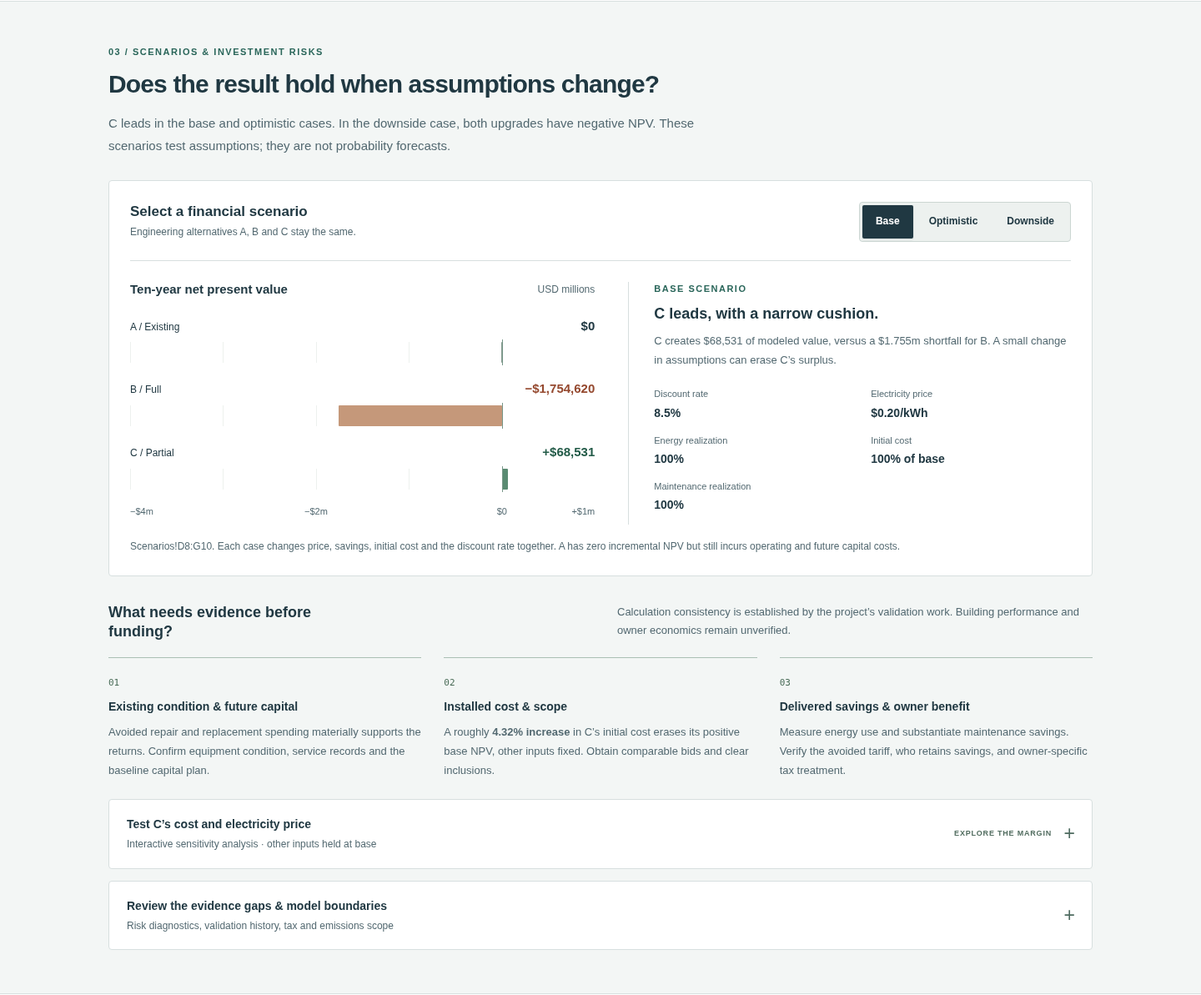
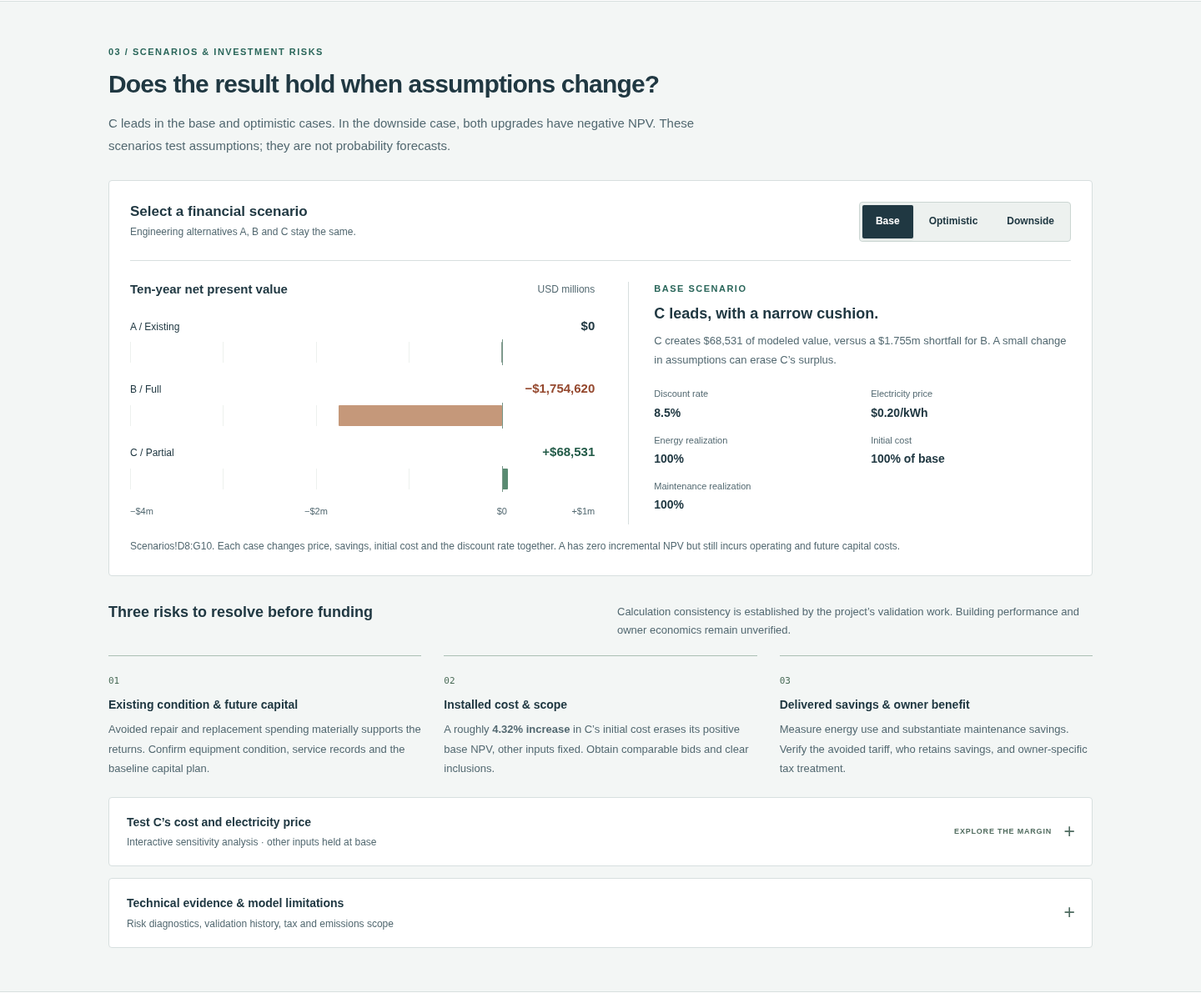
Clarify study title and contribution; prioritize Excel download

diff --git a/hvac-portfolio/site/index.html b/hvac-portfolio/site/index.html
@@ -2,7 +2,7 @@
 <html lang="en">
 <head>
 <meta charset="utf-8"><meta name="viewport" content="width=device-width,initial-scale=1">
-<title>Manhattan HVAC feasibility study | Mohamed Saffiddine</title>
+<title>Manhattan HVAC Modernization | Engineering &amp; Financial Feasibility Study | Mohamed Saffiddine</title>
 <meta name="description" content="Mohamed Saffiddine’s independent HVAC feasibility study: engineering electricity estimates, Excel investment modeling and a conditional recommendation for a hypothetical Manhattan office.">
 <meta name="theme-color" content="#203d47">
 <link rel="icon" href="assets/mark.svg" type="image/svg+xml"><link rel="stylesheet" href="styles.css"><script src="app.js" type="module"></script>
@@ -13,7 +13,7 @@
 <main id="main" tabindex="-1">
 <section class="overview wrap" aria-labelledby="project-title">
 <div class="project-meta"><p class="eyebrow">INDEPENDENT FEASIBILITY STUDY</p><span>October 2026 <span aria-hidden="true">/</span> Hypothetical Manhattan office</span></div>
-<div class="overview-intro"><div class="intro-copy"><h1 id="project-title">Manhattan HVAC<br>modernization study.</h1><p class="lead">Do lower operating costs justify a $5 million upgrade?</p><p class="intro-description">I linked HVAC electricity estimates to an Excel investment model, comparing three ways to serve the same cooling load over ten years.</p><div class="hero-actions"><a class="button" href="assets/documents/Executive_Investment_Summary.pdf" target="_blank" rel="noopener">Executive summary <svg class="arrow-icon" viewBox="0 0 16 16" aria-hidden="true"><path d="M4 12 12 4M4 4h8v8"/></svg></a><a class="button secondary" href="assets/documents/HVAC_CapEx_Final_Validated.xlsx" download>Excel model <span aria-hidden="true">↓</span></a></div><dl class="scope-facts"><div><dt>Building area</dt><dd>500,000 <span>ft²</span></dd></div><div><dt>Cooling capacity</dt><dd>1,200 <span>tons</span></dd></div><div><dt>Planning horizon</dt><dd>2027–2036</dd></div></dl></div>
+<div class="overview-intro"><div class="intro-copy"><h1 id="project-title"><span>Manhattan HVAC Modernization</span><span class="title-detail"> | Engineering &amp; Financial Feasibility Study</span></h1><p class="lead">Do lower operating costs justify a $5 million upgrade?</p><p class="intro-description"><strong>My contribution:</strong> I developed an engineering energy model, evaluated three investment alternatives, and analyzed financial returns in Excel using NPV, XIRR and payback.</p><div class="hero-actions"><a class="button workbook-download" href="assets/documents/HVAC_CapEx_Final_Validated.xlsx" download>Download Excel Model <span aria-hidden="true">↓</span></a><a class="button secondary" href="assets/documents/Executive_Investment_Summary.pdf" target="_blank" rel="noopener">Executive summary <svg class="arrow-icon" viewBox="0 0 16 16" aria-hidden="true"><path d="M4 12 12 4M4 4h8v8"/></svg></a></div><dl class="scope-facts"><div><dt>Building area</dt><dd>500,000 <span>ft²</span></dd></div><div><dt>Cooling capacity</dt><dd>1,200 <span>tons</span></dd></div><div><dt>Planning horizon</dt><dd>2027–2036</dd></div></dl></div>
 <aside class="finding-panel" aria-labelledby="finding-title"><p class="eyebrow">THE FINDING</p><h2 id="finding-title">Investigate the<br>partial upgrade.</h2><p>C has the strongest base-case financial result, with a small positive NPV. Full modernization saves more electricity but does not justify its additional cost within ten years.</p><div class="finding-number"><strong>+$68,531</strong><span>C’s ten-year NPV at 8.5%</span></div><p class="finding-caveat"><span class="status-dot" aria-hidden="true"></span>Further evaluation, not investment approval.</p><a href="#recommendation" class="text-link">Read the recommendation <span aria-hidden="true">↓</span></a></aside></div>
 <div class="overview-comparison"><div class="subheading"><h2>Three alternatives, one decision</h2><span>Base case · USD · modeled results</span></div><div class="option-grid"><article class="option-card"><div class="option-title"><span class="option-tag a">A</span><h3>Retain existing</h3></div><p>Continue operating the current system.</p><dl><div><dt>Initial upgrade cost</dt><dd>$0</dd></div><div><dt>HVAC electricity reduction</dt><dd>0% <span>baseline</span></dd></div><div><dt>Ten-year NPV</dt><dd>$0 <span>incremental baseline</span></dd></div></dl></article><article class="option-card"><div class="option-title"><span class="option-tag b">B</span><h3>Full modernization</h3></div><p>Replace chillers; upgrade plant and controls.</p><dl><div><dt>Initial upgrade cost</dt><dd>$5,000,000</dd></div><div><dt>HVAC electricity reduction</dt><dd>37.7%</dd></div><div><dt>Ten-year NPV</dt><dd class="negative">−$1,754,620</dd></div></dl></article><article class="option-card preferred"><div class="option-title"><span class="option-tag c">C</span><h3>Partial upgrade</h3><span class="small-tag">FURTHER STUDY</span></div><p>Rebuild chillers; selectively improve equipment.</p><dl><div><dt>Initial upgrade cost</dt><dd>$1,669,000</dd></div><div><dt>HVAC electricity reduction</dt><dd>15.7%</dd></div><div><dt>Ten-year NPV</dt><dd class="positive">+$68,531</dd></div></dl></article></div><p class="source">Source: Executive Investment Summary; Summary!D8:F16. A still has operating and future capital costs. Savings are calculated from assumptions, not measured building performance.</p></div>
 </section>
@@ -26,9 +26,9 @@
 <details class="disclosure"><summary><span><strong>Review the capital budget</strong><small>Original itemized planning allowances and contingency</small></span></summary><div class="disclosure-content"><p>The budgets reconcile, but no contractor quotations establish their accuracy. Contingency is 10% of real-property items and is assumed fully spent.</p><div class="table-scroll" tabindex="0" role="region" aria-label="Itemized capital budgets"><table><caption>CapEx!C8:I25 · USD</caption><thead><tr><th scope="col">Budget item</th><th scope="col">B Full</th><th scope="col">C Partial</th></tr></thead><tbody id="capex-table"></tbody></table></div></div></details>
 </section>
 <section class="section soft-section" id="sensitivity" aria-labelledby="scenario-title"><div class="wrap"><div class="section-heading"><p class="eyebrow">03 / SCENARIOS & INVESTMENT RISKS</p><h2 id="scenario-title">Does the result hold when assumptions change?</h2><p>C leads in the base and optimistic cases. In the downside case, both upgrades have negative NPV. These scenarios test assumptions; they are not probability forecasts.</p></div><div class="scenario-panel panel"><div class="scenario-toolbar"><div><h3>Select a financial scenario</h3><p class="small">Engineering alternatives A, B and C stay the same.</p></div><div class="segmented" role="group" aria-label="Financial scenario"><button data-scenario="0" aria-pressed="true">Base</button><button data-scenario="1" aria-pressed="false">Optimistic</button><button data-scenario="2" aria-pressed="false">Downside</button></div></div><div class="scenario-content"><div class="scenario-chart"><div class="panel-heading"><h4 id="npv-chart-heading">Ten-year net present value</h4><span class="small">USD millions</span></div><div id="npv-chart"></div></div><div class="scenario-outcome"><p class="eyebrow" id="selected-scenario">BASE SCENARIO</p><div id="scenario-verdict" aria-live="polite"></div><dl id="scenario-assumptions" class="scenario-assumptions"></dl></div></div><p class="source">Scenarios!D8:G10. Each case changes price, savings, initial cost and the discount rate together. A has zero incremental NPV but still incurs operating and future capital costs.</p></div>
-<div class="risk-overview" id="evidence"><div class="risk-heading"><h3>What needs evidence before funding?</h3><p>Calculation consistency is established by the project’s validation work. Building performance and owner economics remain unverified.</p></div><div class="risk-grid"><article><span class="risk-index">01</span><h4>Existing condition & future capital</h4><p>Avoided repair and replacement spending materially supports the returns. Confirm equipment condition, service records and the baseline capital plan.</p></article><article><span class="risk-index">02</span><h4>Installed cost & scope</h4><p>A roughly <strong>4.32% increase</strong> in C’s initial cost erases its positive base NPV, other inputs fixed. Obtain comparable bids and clear inclusions.</p></article><article><span class="risk-index">03</span><h4>Delivered savings & owner benefit</h4><p>Measure energy use and substantiate maintenance savings. Verify the avoided tariff, who retains savings, and owner-specific tax treatment.</p></article></div></div>
+<div class="risk-overview" id="evidence"><div class="risk-heading"><h3>Three risks to resolve before funding</h3><p>Calculation consistency is established by the project’s validation work. Building performance and owner economics remain unverified.</p></div><div class="risk-grid"><article><span class="risk-index">01</span><h4>Existing condition & future capital</h4><p>Avoided repair and replacement spending materially supports the returns. Confirm equipment condition, service records and the baseline capital plan.</p></article><article><span class="risk-index">02</span><h4>Installed cost & scope</h4><p>A roughly <strong>4.32% increase</strong> in C’s initial cost erases its positive base NPV, other inputs fixed. Obtain comparable bids and clear inclusions.</p></article><article><span class="risk-index">03</span><h4>Delivered savings & owner benefit</h4><p>Measure energy use and substantiate maintenance savings. Verify the avoided tariff, who retains savings, and owner-specific tax treatment.</p></article></div></div>
 <details class="disclosure" id="sensitivity-details"><summary><span><strong>Test C’s cost and electricity price</strong><small>Interactive sensitivity analysis · other inputs held at base</small></span><span class="disclosure-badge">EXPLORE THE MARGIN</span></summary><div class="disclosure-content"><div class="sensitivity-grid"><div class="sensitivity-controls"><label for="capital">Initial capital cost <output id="capital-label" for="capital">100% of base</output></label><input type="range" id="capital" min="80" max="160" step="1" value="100"><div class="range-ends"><span>80% of base</span><span>160% of base</span></div><label for="price">Avoidable electricity price <output id="price-label" for="price">$0.200/kWh</output></label><input type="range" id="price" min="0.12" max="0.28" step="0.005" value="0.2"><div class="range-ends"><span>$0.12/kWh</span><span>$0.28/kWh</span></div><button id="reset-sensitivity" class="button secondary">Reset to base <span aria-hidden="true">↺</span></button></div><div class="sensitivity-result"><p class="eyebrow">C / HYPOTHETICAL TEN-YEAR NPV</p><strong id="sensitivity-npv">+$68,531</strong><p id="sensitivity-status" aria-live="polite"></p><dl><div><dt>Break-even cost at base tariff</dt><dd>$1,741,161</dd></div><div><dt>Break-even tariff at base cost</dt><dd>$0.1724/kWh</dd></div></dl></div></div><p class="source">Scenarios!D40:G40. Initial tax basis scales with initial cost; future capital schedules stay fixed. This sensitivity changes two inputs, not the entire financial scenario.</p><details class="inline-disclosure"><summary>Full cost × price sensitivity grid</summary><div class="table-scroll" tabindex="0" role="region" aria-label="Partial upgrade NPV sensitivity grid"><table class="heatmap"><caption>C NPV in USD. Rows: initial cost multiplier; columns: electricity price in $/kWh. Outlined cell: base case.</caption><thead><tr><th>Cost × / $/kWh</th><th>$0.12</th><th>$0.16</th><th>$0.20</th><th>$0.24</th><th>$0.28</th></tr></thead><tbody id="sensitivity-table"></tbody></table></div></details></div></details>
-<details class="disclosure" id="evidence-details"><summary><span><strong>Review the evidence gaps & model boundaries</strong><small>Risk diagnostics, validation history, tax and emissions scope</small></span></summary><div class="disclosure-content"><div class="technical-grid"><div><h3>Evidence priorities</h3><ul class="detail-list"><li><b>Baseline capital:</b> removing A’s two future capital events and their depreciation takes C’s base NPV to −$950,575 in the report’s severe diagnostic.</li><li><b>Owner benefit:</b> retaining only 50% of net operating savings takes C’s NPV to −$426,932.</li><li><b>Delivered savings:</b> 70% energy realization gives C NPV of −$80,421; separately, 60% maintenance realization gives −$160,465.</li></ul><p class="source">Assumptions Validation, pp. 8–9. Each diagnostic holds other inputs fixed. These are not proposed changes to the baseline.</p></div><div><h3>What the model does not establish</h3><ul class="detail-list"><li>No survey, equipment measurements, contractor bids or owner tax determination validate the inputs.</li><li>The ten-year horizon excludes terminal service value and later tax benefits, especially relevant to B. Financing, incentives and avoided carbon penalties are excluded.</li><li>Tax is illustrative: 28%, immediate deduction use, 39-year real property and five-year computer MACRS; no bonus or Section 179 deduction is assumed.</li><li>The LL97 screen leaves all alternatives above the modeled 2030 limit, omits 2035–2036, and is not a compliance determination. Gas consumption is unchanged.</li></ul></div></div><div class="validation-note"><strong>Validated calculations ≠ verified performance.</strong><p>The supplied Step 3 report documents 94 independent comparisons. Step 2 records control corrections to the original model. Those are historical project checks; they do not establish site savings or investment readiness.</p><a class="text-link" href="assets/documents/Engineering_Financial_Assumptions_Validation.pdf" target="_blank" rel="noopener">Read the assumptions validation →</a></div></div></details>
+<details class="disclosure" id="evidence-details"><summary><span><strong>Technical evidence & model limitations</strong><small>Risk diagnostics, validation history, tax and emissions scope</small></span></summary><div class="disclosure-content"><div class="technical-grid"><div><h3>Evidence priorities</h3><ul class="detail-list"><li><b>Baseline capital:</b> removing A’s two future capital events and their depreciation takes C’s base NPV to −$950,575 in the report’s severe diagnostic.</li><li><b>Owner benefit:</b> retaining only 50% of net operating savings takes C’s NPV to −$426,932.</li><li><b>Delivered savings:</b> 70% energy realization gives C NPV of −$80,421; separately, 60% maintenance realization gives −$160,465.</li></ul><p class="source">Assumptions Validation, pp. 8–9. Each diagnostic holds other inputs fixed. These are not proposed changes to the baseline.</p></div><div><h3>What the model does not establish</h3><ul class="detail-list"><li>No survey, equipment measurements, contractor bids or owner tax determination validate the inputs.</li><li>The ten-year horizon excludes terminal service value and later tax benefits, especially relevant to B. Financing, incentives and avoided carbon penalties are excluded.</li><li>Tax is illustrative: 28%, immediate deduction use, 39-year real property and five-year computer MACRS; no bonus or Section 179 deduction is assumed.</li><li>The LL97 screen leaves all alternatives above the modeled 2030 limit, omits 2035–2036, and is not a compliance determination. Gas consumption is unchanged.</li></ul></div></div><div class="validation-note"><strong>Validated calculations ≠ verified performance.</strong><p>The supplied Step 3 report documents 94 independent comparisons. Step 2 records control corrections to the original model. Those are historical project checks; they do not establish site savings or investment readiness.</p><a class="text-link" href="assets/documents/Engineering_Financial_Assumptions_Validation.pdf" target="_blank" rel="noopener">Read the assumptions validation →</a></div></div></details>
 </div></section>
 <section class="section wrap recommendation-section" id="recommendation" aria-labelledby="recommendation-title"><div class="recommendation-heading"><p class="eyebrow">04 / INVESTMENT RECOMMENDATION</p><h2 id="recommendation-title">Advance C for further evaluation.<br>Verify the case before committing capital.</h2><p>Partial upgrade offers the strongest base-case NPV and uses less capital. Its small surplus and late discounted recovery leave limited room for error.</p></div><div class="recommendation-grid"><div class="recommendation-reasons"><h3>Why C merits further study</h3><ul><li><span aria-hidden="true">✓</span><p><b>Better ten-year value.</b> B’s additional $3.331m is not justified by the modeled incremental benefits.</p></li><li><span aria-hidden="true">✓</span><p><b>A modest return, not a robust approval case.</b> C’s 9.44% XIRR barely exceeds the 8.5% discount rate; discounted payback is 9.12 years.</p></li></ul></div><div class="next-steps"><h3>Before funding</h3><ol><li>Confirm equipment condition and future repair needs.</li><li>Obtain installed bids and measure operating performance.</li><li>Verify utility savings, lease allocation and tax treatment.</li></ol></div></div><p class="recommendation-boundary">This independent hypothetical study supports further investigation. It does not approve either upgrade or establish lifetime performance beyond the ten-year planning window.</p></section>
 <section class="section soft-section" id="library" aria-labelledby="library-title"><div class="wrap"><div class="section-heading"><p class="eyebrow">05 / SKILLS & PROJECT DOCUMENTS</p><h2 id="library-title">The analysis, with its working behind it.</h2><p>Mechanical engineering and financial analysis in one workflow. Explore the core project files first; the research and audit trail remain available below.</p></div><div class="skills-strip" aria-label="Methods demonstrated"><span>HVAC electricity modeling</span><span>Excel cash-flow analysis</span><span>NPV & XIRR</span><span>Scenario & sensitivity testing</span><span>Source evaluation</span></div><details class="disclosure workflow-details"><summary><span><strong>How I approached the full project</strong><small>Research → engineering → finance → recommendation</small></span></summary><div class="disclosure-content"><ol class="workflow-list"><li><b>Establish engineering assumptions</b><span>Research equipment, reference rules and the hypothetical operating profile.</span></li><li><b>Model HVAC electricity</b><span>Use load bins and auxiliary power allowances with consistent units.</span></li><li><b>Estimate capital and operating costs</b><span>Reconcile itemized budgets, contingency and recurring savings.</span></li><li><b>Build the Excel financial analysis</b><span>Link depreciation, tax and dated incremental after-tax cash flows.</span></li><li><b>Compare the investment alternatives</b><span>Use NPV, XIRR and interpolated payback over a shared horizon.</span></li><li><b>Challenge assumptions</b><span>Test financial scenarios, sensitivities and evidence gaps.</span></li><li><b>Recommend the next action</b><span>Separate modeled attractiveness from an investment approval.</span></li></ol></div></details><div class="subheading library-heading"><h3>Start with these four files</h3><span>Original documents · unchanged</span></div><div id="document-grid" class="document-grid"></div><details class="disclosure" id="supporting-documents"><summary><span><strong>Supporting research & validation</strong><small>Project guide, assumptions register, original audit and correction report</small></span><span class="disclosure-badge">4 FILES</span></summary><div class="disclosure-content"><div id="supporting-grid" class="supporting-grid"></div></div></details><div class="library-footer"><p>All eight source files are preserved. Some reports retain earlier internal filenames.</p><a class="text-link" href="assets/Manhattan_HVAC_Portfolio_Project.zip" download>Download original project ZIP <span aria-hidden="true">↓</span></a></div><noscript><p>Interactive charts require JavaScript. <a href="assets/Manhattan_HVAC_Portfolio_Project.zip">Download the original project</a> to review the complete study.</p></noscript></div></section>

diff --git a/hvac-portfolio/site/app.js b/hvac-portfolio/site/app.js
@@ -124,9 +124,7 @@ try {
  $('#sensitivity-table').innerHTML=data.matrix.map((row,i)=>`<tr><th scope="row">${(0.8+i*0.2).toFixed(1)}×</th>${row.map((v,j)=>`<td class="${v>=0?'positive':'negative'} ${i===1&&j===2?'base-cell':''}">${money(v)}</td>`).join('')}</tr>`).join('');
  $('#capex-table').innerHTML=data.capex.map(r=>`<tr><th scope="row">${r.item}</th><td>${money(r.B,false)}</td><td>${money(r.C,false)}</td></tr>`).join('')+'<tr><th scope="row">Contingency (real-property items)</th><td>$450,000</td><td>$149,000</td></tr><tr><th scope="row">Total initial funding</th><td>$5,000,000</td><td>$1,669,000</td></tr>';
  const dialog=$('#document-dialog');
- let previewButton=null;
  function preview(doc,button) {
-  previewButton=button;
   const url=`assets/documents/${doc.file}`;
   $('#dialog-title').textContent=doc.title;
   $('#pdf-preview').title=`${doc.title}: original PDF`;
@@ -140,7 +138,7 @@ try {
   // A queued close event can arrive after another document has already opened.
   if (dialog.open) return;
   $('#pdf-preview').removeAttribute('src');
-  previewButton?.focus();
+  // Native dialog close restores focus; a queued manual focus can steal the next activation.
  });
  const primaryFiles = [
   'Executive_Investment_Summary.pdf',

diff --git a/hvac-portfolio/site/styles.css b/hvac-portfolio/site/styles.css
@@ -322,3 +322,12 @@ dialog::backdrop { background:#142d37bb; backdrop-filter:blur(4px); }.dialog-hea
  .financial-table td,.financial-table thead th { width:23%; padding-inline:4px; font-size:11px; }
  .compact-value { font-size:11px; }
 }
+
+/* The project name and study scope form one descriptive, accessible title. */
+h1>span:first-child { display:block; font-size:38px; line-height:1.15; }
+h1 .title-detail { display:block; font-size:26px; line-height:1.3; font-weight:500; letter-spacing:-.5px; margin-top:8px; }
+.intro-description strong { color:var(--ink); font-weight:600; }
+@media(max-width:1100px) { h1>span:first-child { font-size:33px; }h1 .title-detail { font-size:23px; } }
+@media(max-width:850px) { h1>span:first-child { font-size:30px; }h1 .title-detail { font-size:21px; } }
+@media(max-width:650px) { h1>span:first-child { font-size:31px; }h1 .title-detail { font-size:22px; margin-top:7px; }.hero-actions .workbook-download { font-size:12px; } }
+@media(max-width:360px) { h1>span:first-child { font-size:29px; }h1 .title-detail { font-size:20px; }.hero-actions { align-items:stretch; }.hero-actions .button { min-height:44px; } }

diff --git a/hvac-portfolio/tests/browser.py b/hvac-portfolio/tests/browser.py
@@ -63,7 +63,12 @@ try:
             assert page.locator('#cash-chart').is_hidden()
             assert page.locator('[data-component="chillers"]').is_hidden()
             assert all(not item.evaluate('(element) => element.open') for item in page.locator('details').all())
-            expect(page.locator('#project-title')).to_contain_text('Manhattan HVAC')
+            expect(page.locator('#project-title')).to_have_text('Manhattan HVAC Modernization | Engineering & Financial Feasibility Study')
+            expect(page.locator('.intro-description')).to_contain_text('I developed an engineering energy model')
+            expect(page.locator('.hero-actions a').first).to_have_text('Download Excel Model ↓')
+            assert 'secondary' not in page.locator('.hero-actions a').first.get_attribute('class')
+            expect(page.locator('.risk-grid article')).to_have_count(3)
+            assert not page.locator('#evidence-details').evaluate('(element) => element.open')
             expect(page.locator('#finding-title')).to_contain_text('partial upgrade')
             expect(page.locator('.finding-number')).to_contain_text('+$68,531')
             assert page.locator('.financial-table').is_visible()

diff --git a/hvac-portfolio/README.md b/hvac-portfolio/README.md
@@ -34,7 +34,7 @@ The existing website is `https://manhattan-hvac-portfolio.pages.dev/`. This rede
 3. In Cloudflare **Workers & Pages**, open the existing **manhattan-hvac-portfolio** Pages project.
 4. In its **Deployments** area, choose **Create a new deployment** (or the upload-new-deployment action shown in the dashboard).
 5. Select the **Production** environment, upload the redesigned Pages ZIP and deploy. Use the existing project; do not delete it or start a second project.
-6. Confirm the existing URL now shows “Manhattan HVAC modernization study.” Check the scenario buttons, PDF previews and Excel/ZIP downloads on that HTTPS origin. The previous deployment remains available for rollback in Cloudflare’s deployment history.
+6. Confirm the existing URL now shows “Manhattan HVAC Modernization | Engineering & Financial Feasibility Study” Check the scenario buttons, PDF previews and Excel/ZIP downloads on that HTTPS origin. The previous deployment remains available for rollback in Cloudflare’s deployment history.
 
 If uploading a folder, upload the contents of `dist/` with `index.html` at the root. Do not upload the full source archive or the original study ZIP as website files. There are no backend bindings, secrets or runtime environment variables. The app uses relative asset URLs and preserves `#main`, `#engineering`, `#investment`, `#sensitivity`, `#evidence` and `#library` anchors. `#recommendation` is a new anchor.
 

diff --git a/hvac-portfolio/REDESIGN_NOTES.md b/hvac-portfolio/REDESIGN_NOTES.md
@@ -29,3 +29,7 @@ The production build was rendered in Chromium at desktop, tablet, mobile and nar
 The live URL could not be opened from this cloud runtime: the egress proxy returned HTTP 403 / tunnel connection failure. The review therefore used the existing deployed source rendered locally, and the final checks served the production `dist/` build. No live-origin validation is claimed.
 
 Use `downloads/Manhattan_HVAC_Redesigned_Cloudflare_Pages.zip` to create a new production deployment in the **existing** `manhattan-hvac-portfolio` Cloudflare Pages project. `README.md` contains step-by-step instructions. The previously delivered deployment ZIP is retained separately for reference. GitHub-hosted previews in `previews/` are screenshots, not a live deployment.
+
+## Follow-up refinements
+
+The primary heading now reads “Manhattan HVAC Modernization | Engineering & Financial Feasibility Study,” with matching browser-title metadata. The opening contribution statement explicitly names the engineering energy model, evaluation of three investment alternatives and Excel analysis of NPV, XIRR and payback. “Download Excel Model” is the first, filled primary action; Executive Summary remains next to it as a secondary action. The three visible risks and closed technical-evidence disclosure are retained, with shorter labels. Original numerical data, financial helpers and downloadable source documents remain unchanged.

diff --git a/hvac-portfolio/VALIDATION.md b/hvac-portfolio/VALIDATION.md
@@ -35,3 +35,7 @@ The live `https://manhattan-hvac-portfolio.pages.dev/` URL was blocked by the cl
 The website tests reproduce the original workbook's cached values and relevant equations. They do not recalculate every Excel formula or rerun the historical audit's complete spreadsheet-control suite. Historical project test counts remain clearly identified as source-report claims. No site performance, tax eligibility, legal compliance or actual investment approval is established.
 
 Safari, Firefox, physical devices and assistive-technology user testing were not performed. Automated accessibility results are not a certification. Cloudflare Pages upload structure and headers are included and verified locally; a newly deployed HTTPS origin must be checked after the user publishes the redesign.
+
+## Headline, contribution and workbook refinements
+
+The follow-up browser checks assert the full requested H1, the explicit contribution statement, the first/primary Excel action, three visible risk cards and a closed technical-evidence disclosure. A further rapid keyboard challenge opened all six PDFs three times at 320px (18 activations), verifying document identity and native focus return after each close. A queued manual focus restoration was removed because it could steal focus from the next activation. Production document hashes and financial source data remain unchanged.
